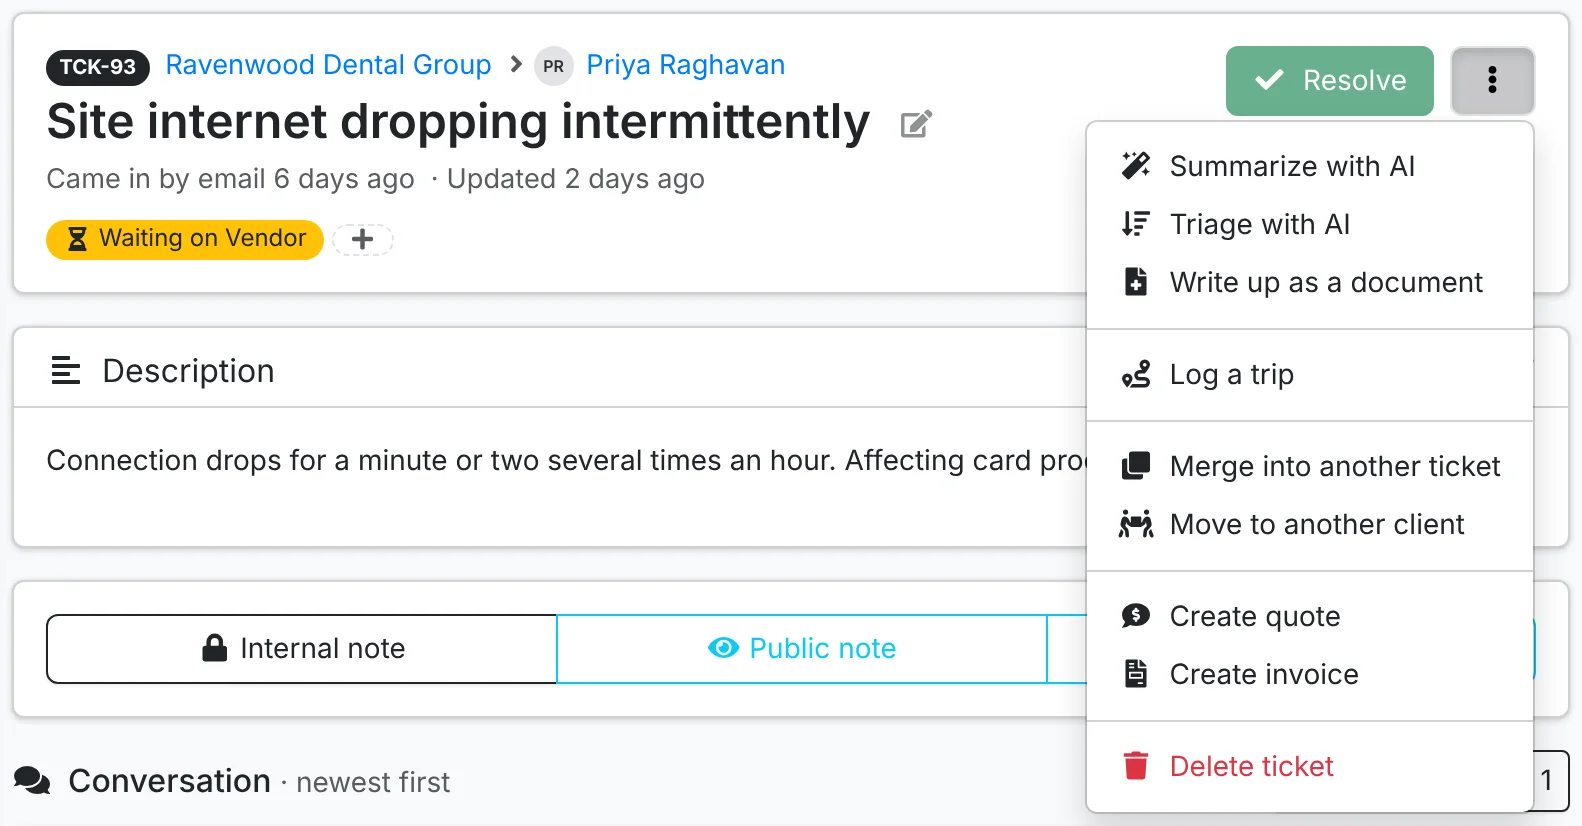
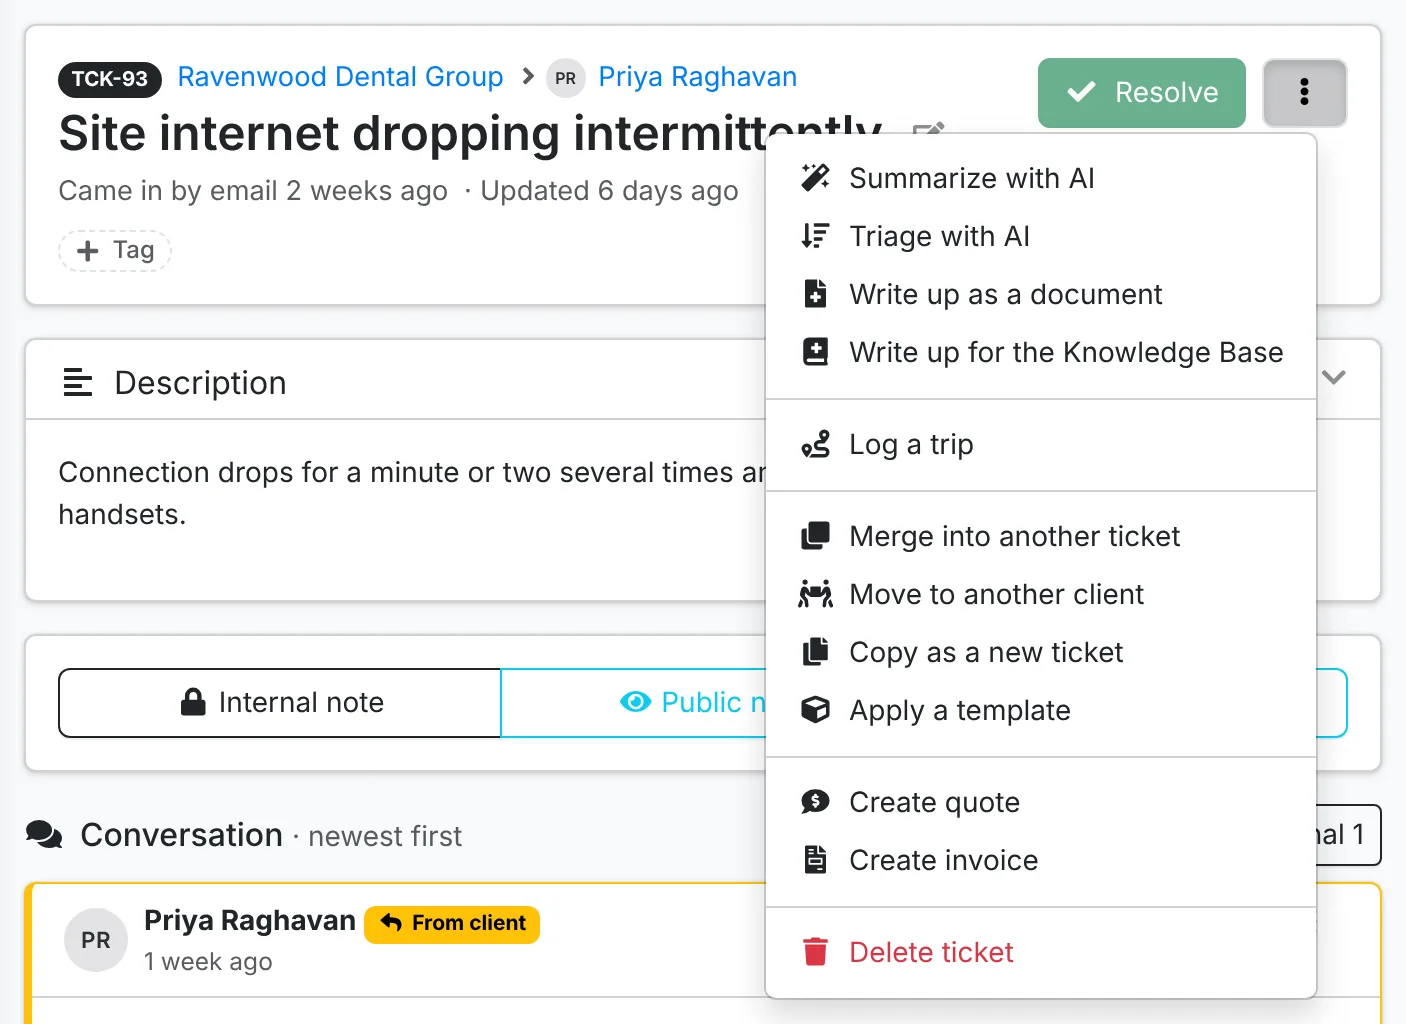
Docs: Working a ticket covers reply drafts, dropping files, quick time buttons, the no-time prompt, splitting a reply, reading the original email, picture zoom, and copying a ticket or applying a template

Changed region(s): [[0.0, 0.0, 1.0, 1.0]]

diff --git a/content/service-desk/working-a-ticket.md b/content/service-desk/working-a-ticket.md
@@ -18,7 +18,7 @@ On the right is the one action for where the ticket is:
 - **Reopen** and **Close** once it's resolved.
 - **Invoice** once a billable ticket is done.
 
-The **⋮** menu has the rest: **Log a trip**, **Merge into another ticket**, **Move to another client**, **Create quote**, **Create invoice** and **Delete ticket**. With AI set up, it also has **Summarize with AI**, **Triage with AI** and **Write up as a document** - see [Using AI](/getting-started/ai). **Write up for the Knowledge Base** starts a draft article from the ticket - see [Knowledge Base](/service-desk/knowledge-base#write-up).
+The **⋮** menu has the rest: **Log a trip**, **Merge into another ticket**, **Move to another client**, **Copy as a new ticket**, **Apply a template**, **Create quote**, **Create invoice** and **Delete ticket**. With AI set up, it also has **Summarize with AI**, **Triage with AI** and **Write up as a document** - see [Using AI](/getting-started/ai). **Write up for the Knowledge Base** starts a draft article from the ticket - see [Knowledge Base](/service-desk/knowledge-base#write-up).
 
 ![The ticket's menu](sd-ticket-menu.webp "The ticket's ⋮ menu")
 
@@ -51,10 +51,14 @@ Pick one and the reply box opens, with a line saying exactly who will see it. An
 ![The reply box with Email reply picked](sd-reply.webp "The reply box: who will see it, the To line, the editor, files, the time worked and when, and the status after it")
 
 1. Type your reply. To use a canned response, click **Canned response** or type <kbd>/</kbd> in the reply. See [Canned responses](/service-desk/canned-responses). To send a how-to, click **Knowledge Base** - see [Knowledge Base](/service-desk/knowledge-base#tickets).
-2. Add files under **Attach files** if you need to.
+2. Add files under **Attach files** if you need to, or drop them onto the reply box.
 3. Pick the **Status after this** - for example, set it to On Hold while you wait for a part.
-4. Enter the **Time worked**, or click ▶ to start a timer and let it count while you work. **When it was worked** fills in from the timer - the work ends now - or type the date, start and end yourself. See [When the time was worked](#work-times).
+4. Enter the **Time worked**, or click ▶ to start a timer and let it count while you work. **+15m**, **+30m** and **+1h** add time in one click - the timer stops at the new total. **When it was worked** fills in from the timer - the work ends now - or type the date, start and end yourself. See [When the time was worked](#work-times).
 5. Click the button: **Add note** for an internal note, **Post note** for a public note, **Send email** for an email reply. Your signature is added to email replies.
+
+On a billable ticket, a reply with no time asks first: **Send without time**, or **Add time** to go back and enter it.
+
+What you type is kept as you write. Leave the page, close the browser or get signed out, and it's still in the reply box next time, with a note saying so - pick who it's for to carry on, or **discard it**. Sending it clears it, and one left untouched for a month goes.
 
 Once an email reply is sent, the message at the top says how many people it went to. If nobody got it - the ticket has no contact or watcher with an email address, or mail isn't set up - it says so, and the reply is kept as a public note.
 
@@ -133,7 +137,13 @@ Admins also get a link to the ticket's email in the mail queue, to retry one tha
 
 Replies from before ITFlow kept this are marked **Public**, as it isn't known whether they were emailed - unless the mail queue still had their email when you updated, in which case they show as email replies too.
 
+Click a picture that's been shrunk to fit to see it full size. Click again, or press <kbd>Esc</kbd>, to close it.
+
+A reply that came in by email keeps the email as it arrived, as **Original-parsed-email.eml** under it - and so does a ticket raised by email. **Read** beside it shows who it was from and to, when, its headers, and everything it said, including what ITFlow trimmed off below the reply line. **Download .eml** opens it in your email app.
+
 Each reply's **⋮** has **Edit**, **Redact** (to blank out something that shouldn't be kept, such as a password the client sent) and **Archive**. Editing an email reply changes it on the ticket and in the portal - the people it was emailed to keep the email as it was sent.
+
+A client's reply also has **Split into a new ticket** - for when they raise a second problem in a reply. Give it a subject, and pick its priority and who it's assigned to. The new ticket is for the same client and the person who wrote the reply, with what they wrote as its details and their attachments. The reply leaves this ticket, and a note on each ticket points to the other. The client is told about the new ticket as for any other.
 
 **Edit** changes a note's time and when it was worked too: change the times and the time worked follows, or change only the time worked and the start moves. Notes from before this, and from bulk replies and the API, ended when they were posted.
 
@@ -146,7 +156,7 @@ Each reply's **⋮** has **Edit**, **Redact** (to blank out something that shoul
 
 ## Tasks
 
-Tasks are the steps to the job. They come from the ticket's template, or you add them:
+Tasks are the steps to the job. They come from the ticket's template, or you add them - or apply a template to a ticket that's already open, from the **⋮** menu (see [Copy a ticket or apply a template](#copy)):
 
 - Type in **Add a task** and press <kbd>Enter</kbd>.
 - Tick a task when it's done. Drag tasks by their handle to reorder them.
@@ -218,6 +228,11 @@ For a client who hasn't replied after several tries, use the arrow beside **Reso
 - The message goes on the ticket as a public note, and to the contact and watchers in place of the usual "resolved" email, when client emails are on.
 - The ticket is resolved, and closes on its own as usual - without asking the client how you did.
 - If they reply before it closes, it reopens like any resolved ticket.
+
+## Copy a ticket or apply a template {#copy}
+
+- **Copy as a new ticket** opens **New Ticket** with this ticket's subject, details, priority, category, billing, contact, asset and tasks, for the same client. Change anything first - pick another client for the same job somewhere else.
+- **Apply a template** puts a ticket template on a ticket that's already open. Pick the template: its tasks are listed for you to change, and it asks its [fill-ins](/service-desk/new-ticket#fill-ins). **Apply** adds the tasks after the ticket's own, and its tags and due time where the ticket has none. The ticket's subject, details, category and priority stay as they are.
 
 ## Merge, move and delete
 

diff --git a/content/service-desk/new-ticket.md b/content/service-desk/new-ticket.md
@@ -31,6 +31,8 @@ Tickets reach ITFlow in several ways:
 
 The contact gets an email saying their ticket is raised, when client emails are on, and the technician you assigned it to is told. Work you scheduled is booked as it is from the ticket's **Schedule** window: the technician, and the contact and watchers when client emails are on, get the time with a calendar invite - see [Book a visit or a call](/service-desk/working-a-ticket#book-a-visit-or-a-call).
 
+To raise one like a ticket you already have - the same job for another client, say - use **Copy as a new ticket** in that ticket's **⋮** menu. **New Ticket** opens filled in from it. See [Copy a ticket or apply a template](/service-desk/working-a-ticket#copy).
+
 ## Quick ticket {#quick-ticket}
 
 For a call, or someone at your desk, click **+** in the top bar - it's there on every page. **Quick ticket** asks only for what you need while they're talking.
